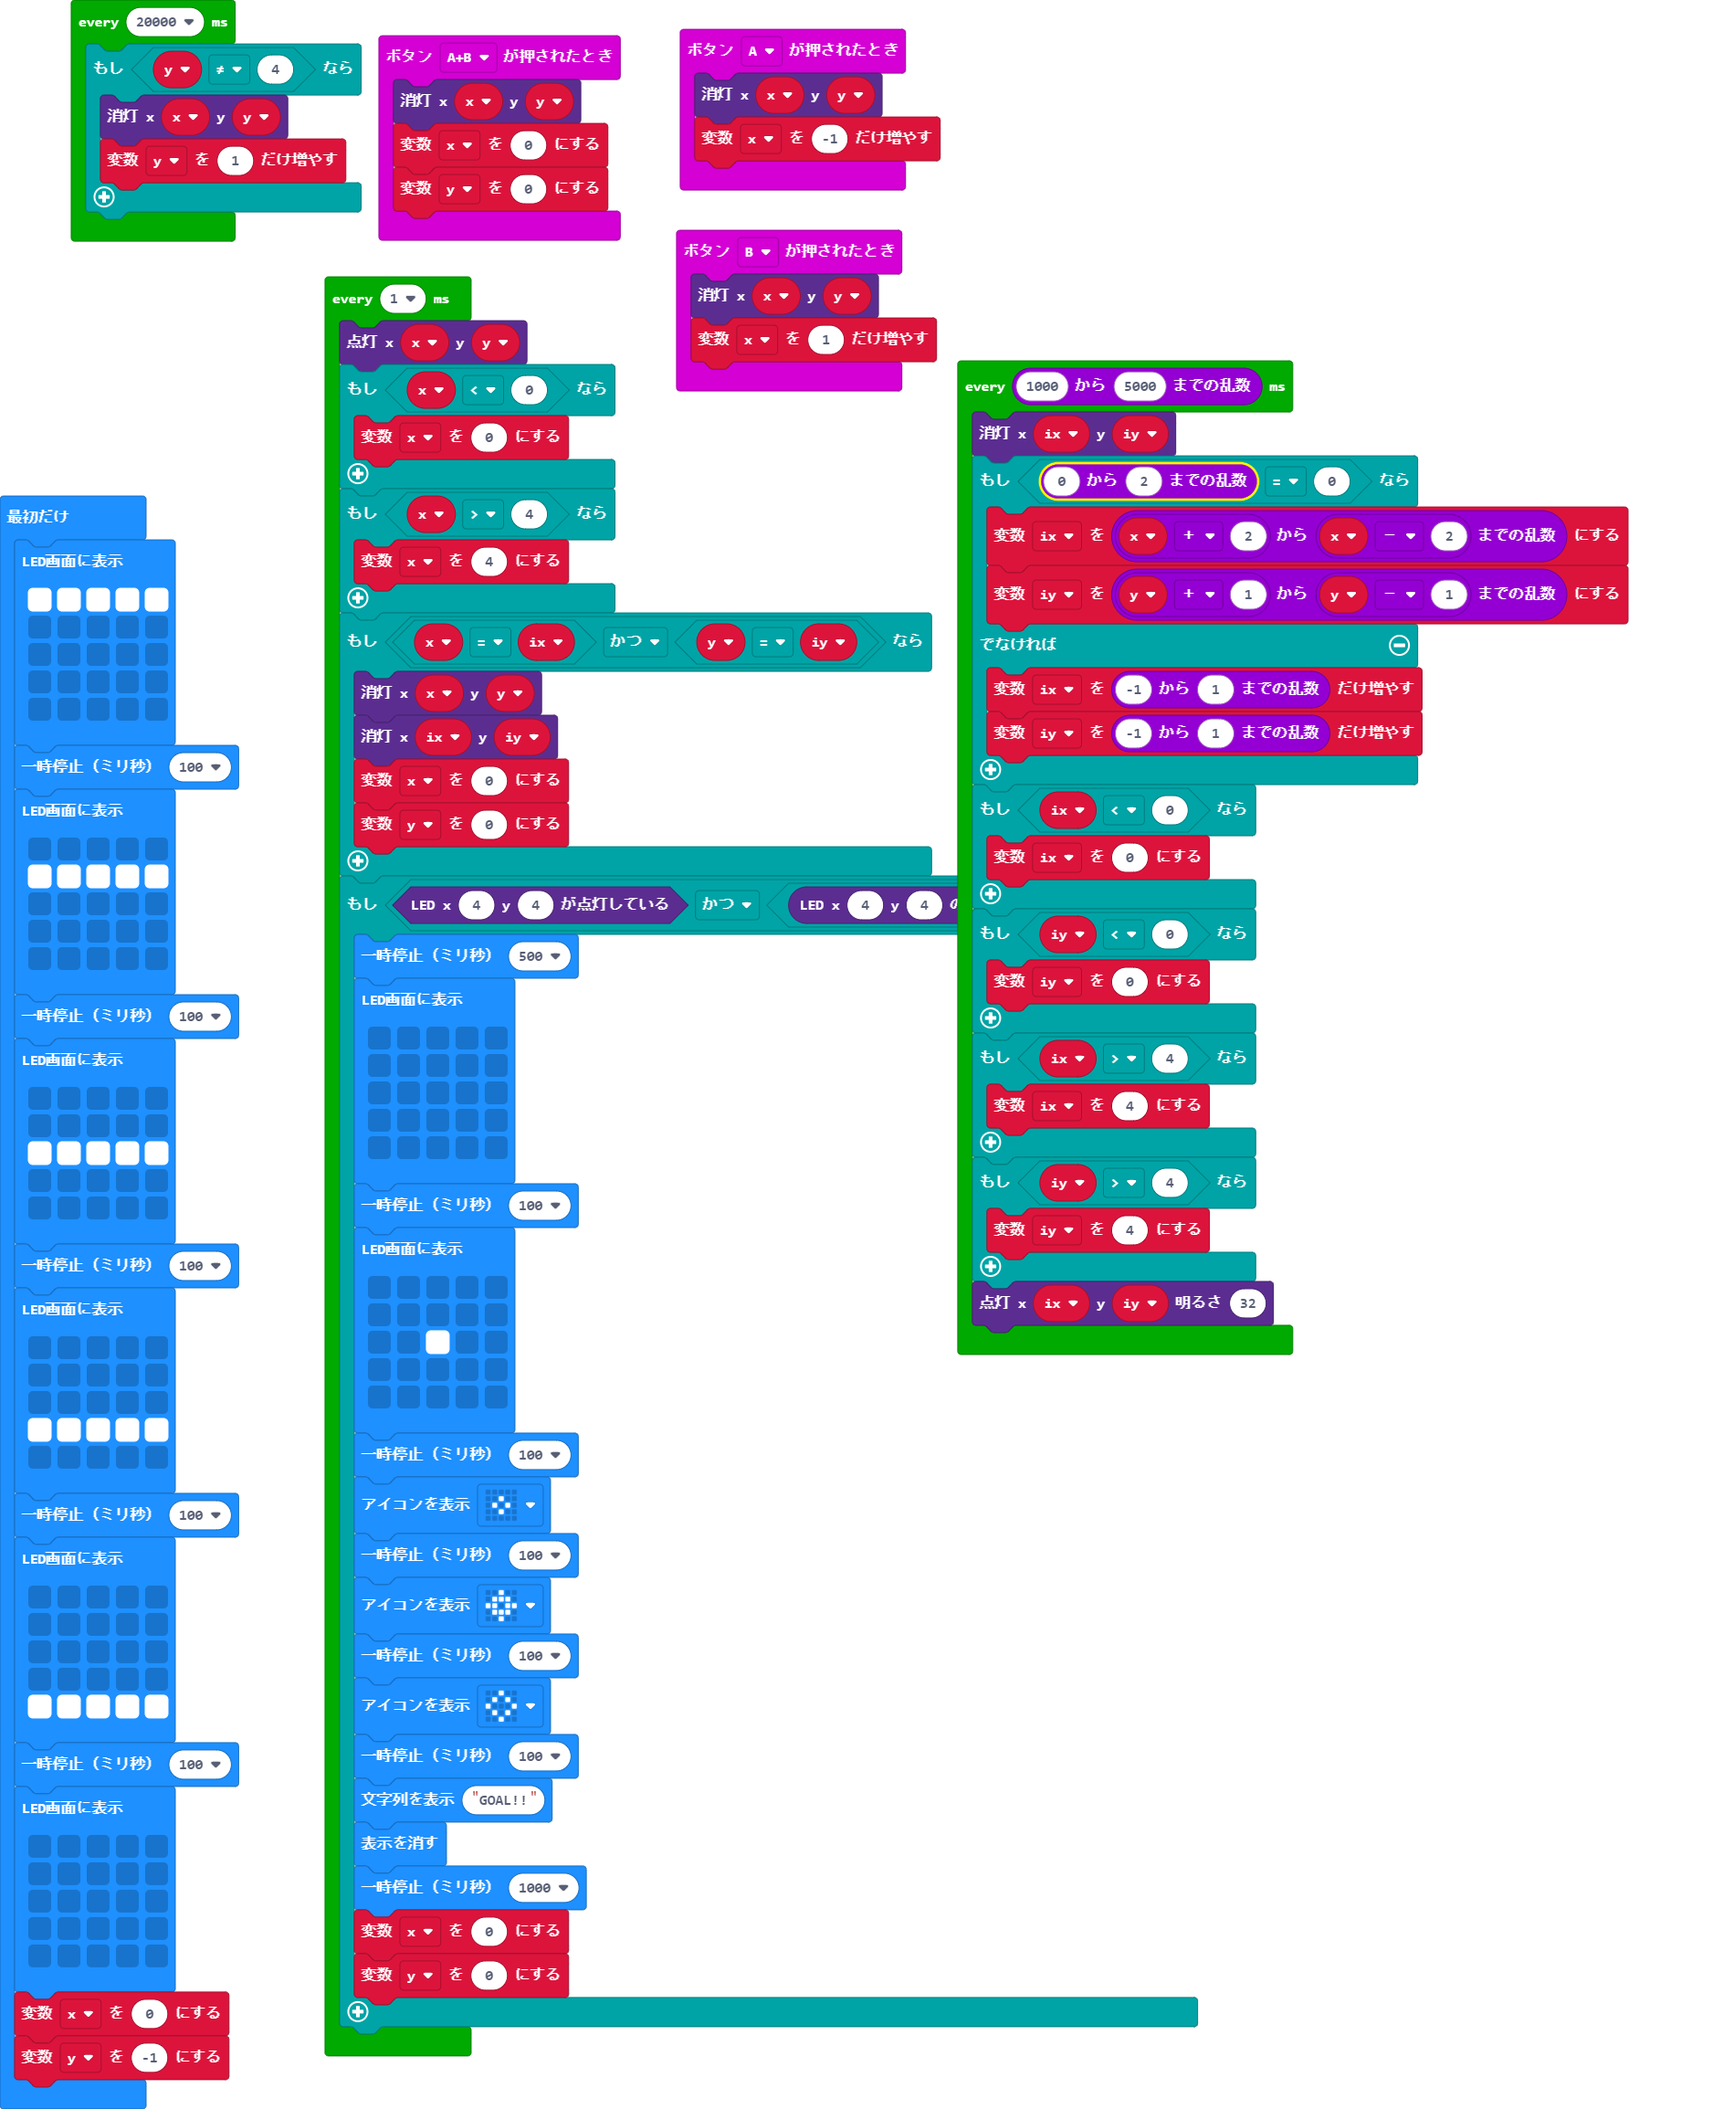
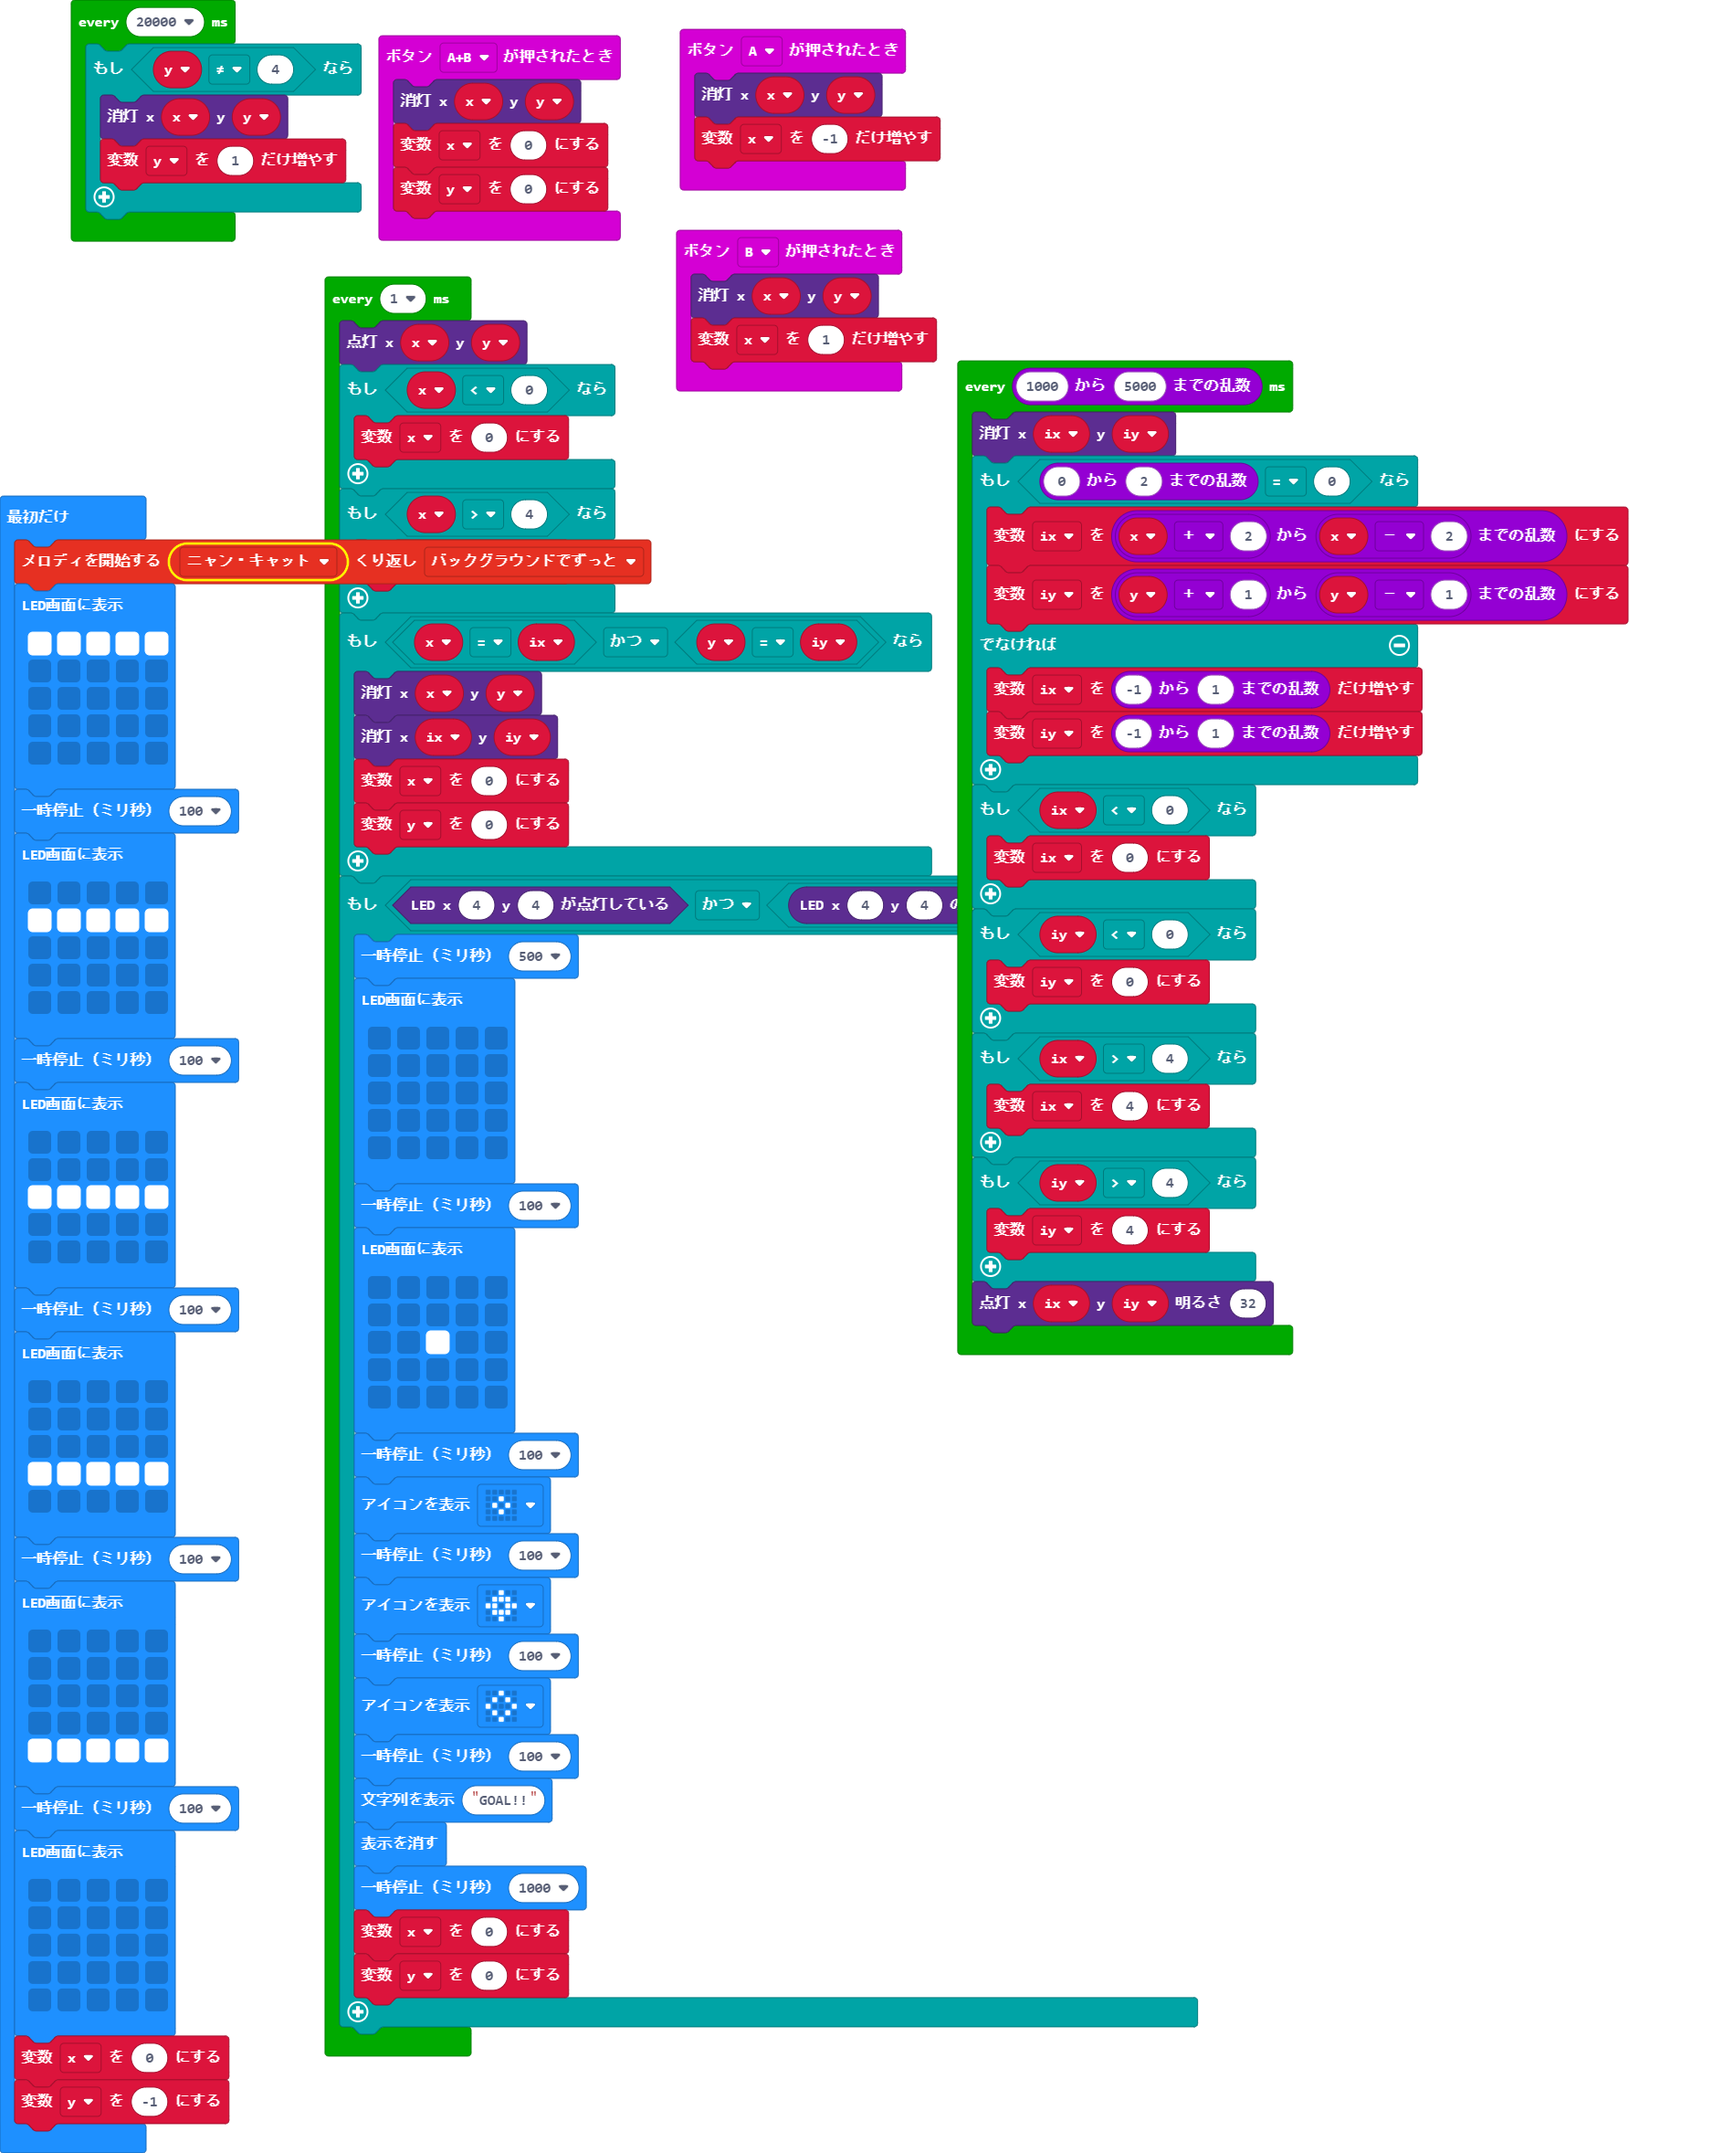
更新 main.blocks, main.ts

Changed region(s): [[0.0, 0.0, 0.9528, 0.9978]]

diff --git a/main.ts b/main.ts
@@ -15,6 +15,7 @@ let iy = 0
 let ix = 0
 let y = 0
 let x = 0
+music.startMelody(music.builtInMelody(Melodies.Nyan), MelodyOptions.ForeverInBackground)
 basic.showLeds(`
     # # # # #
     . . . . .
